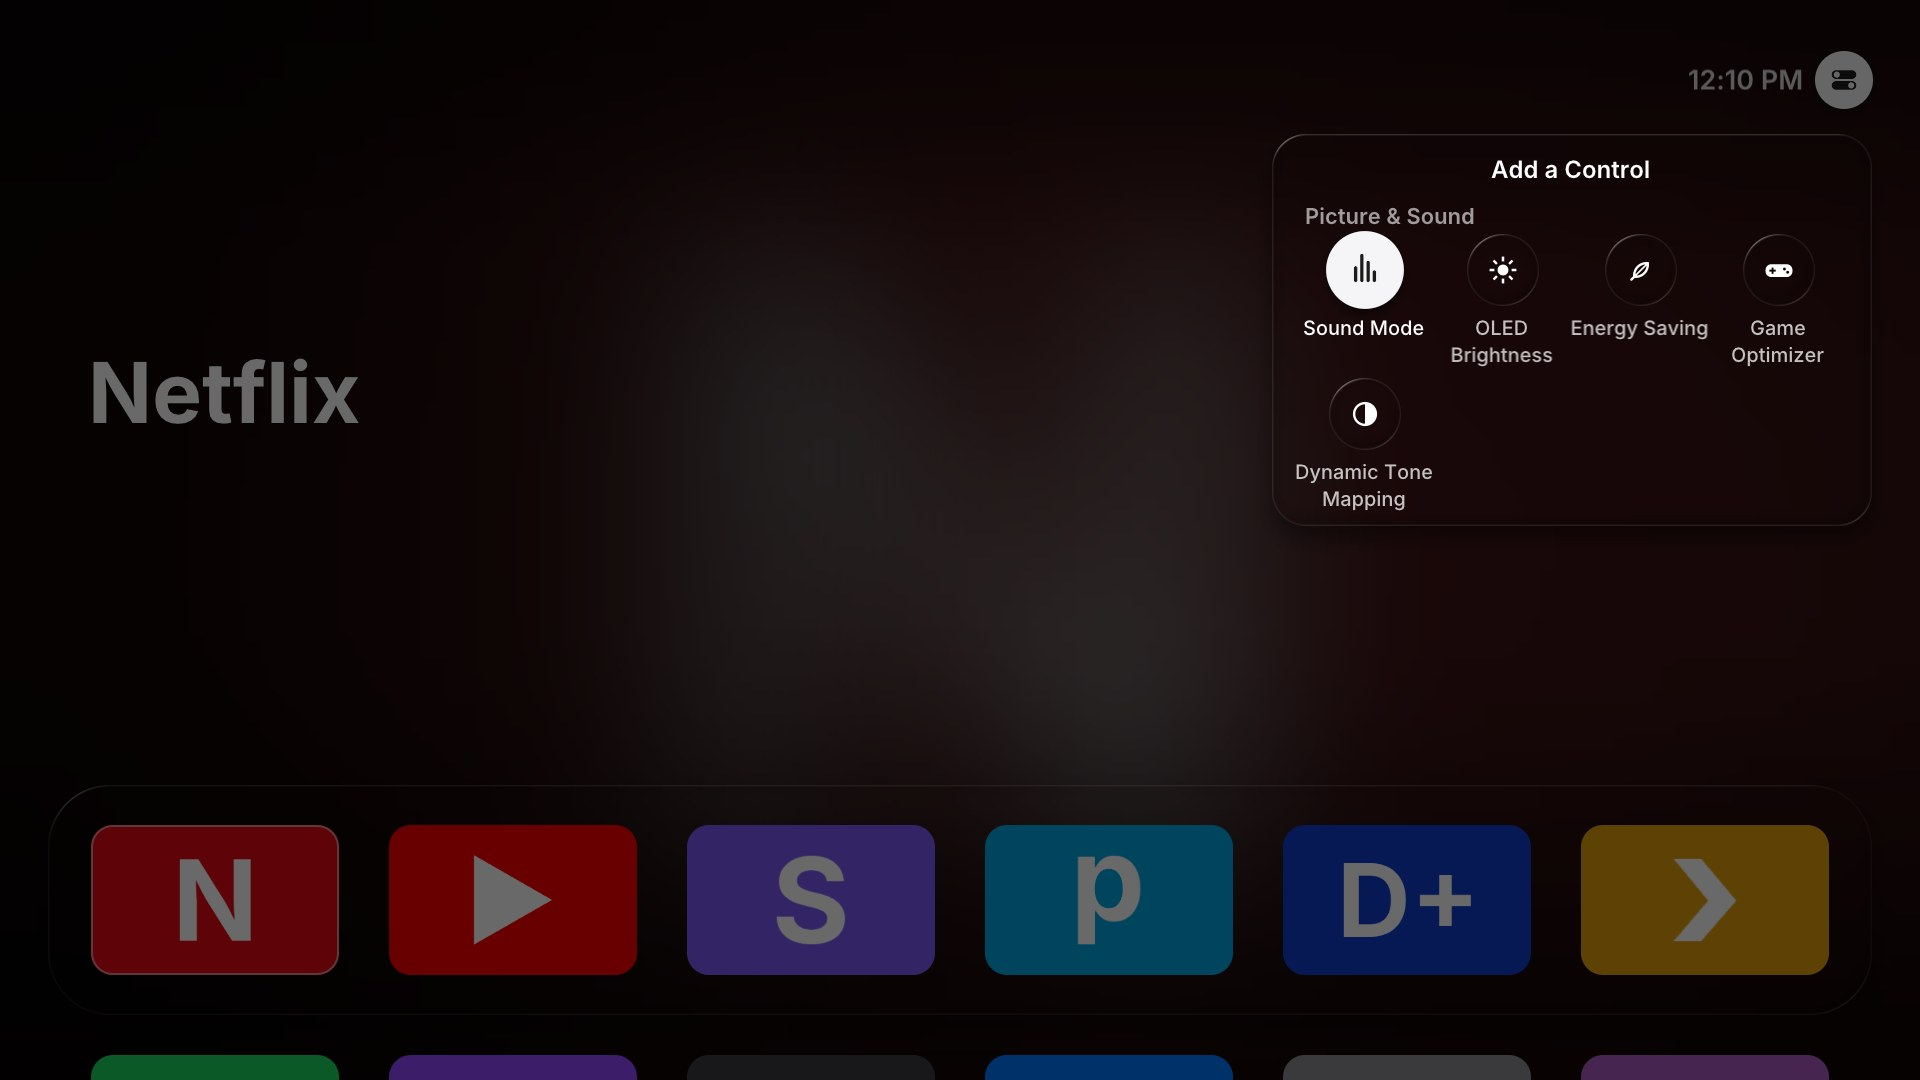
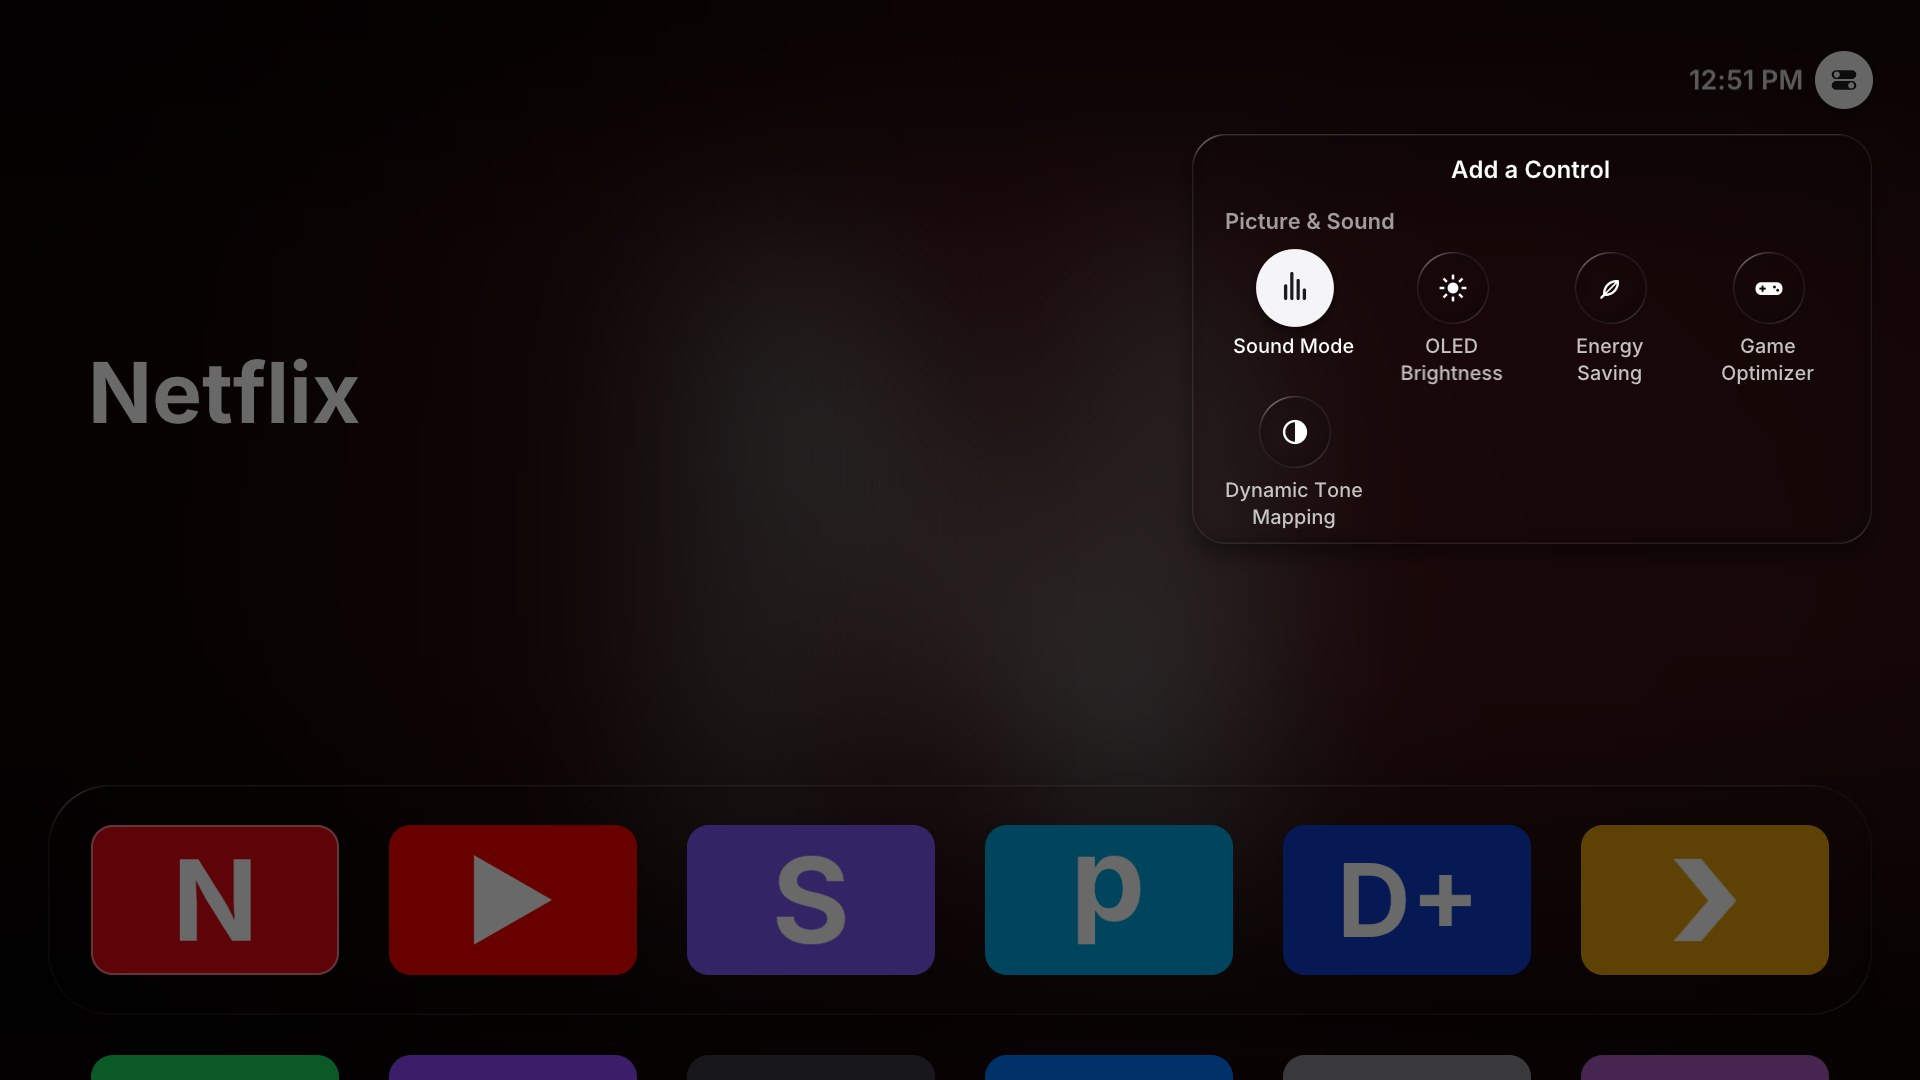
Add a Control: room between each group's name and its controls
A group's name sat in the middle of a 34 px band that ended where its buttons began, about 3 px
above them. The band is 52 px now, with the name near its top (GAL_GROUP_TOP), so there's about
18 px between a name and its controls. Both Control Centers; the README's picture is the new look.

diff --git a/native/qml/ControlCenterView.qml b/native/qml/ControlCenterView.qml
@@ -460,12 +460,13 @@ FocusScope {
 
     // ---- the gallery: what can be added, by group, as round buttons with their names under them;
     // wider than the grid, its right edge the grid's (main.c: cc_gallery_build; GAL_W, GAL_PAD,
-    // GAL_HEAD, GAL_GROUP, GAL_BTN, GAL_ROW, GAL_NAME_PX, GAL_NAME_GAP)
+    // GAL_HEAD, GAL_GROUP, GAL_GROUP_TOP, GAL_BTN, GAL_ROW, GAL_NAME_PX, GAL_NAME_GAP)
 
     readonly property int galW: 680
     readonly property int galPad: 24
     readonly property int galHead: 66
-    readonly property int galGroup: 34
+    readonly property int galGroup: 52 // a group's name, near the top: room between it and its controls
+    readonly property int galGroupTop: 6
     readonly property int galBtn: 72
     readonly property int galRow: 144
     readonly property int galNamePx: 20
@@ -1138,7 +1139,7 @@ FocusScope {
             model: view.galleryHeads.length
             delegate: Text {
                 x: view.galPad + 8
-                y: view.galleryHeads[index].y + (view.galGroup - height) / 2
+                y: view.galleryHeads[index].y + view.galGroupTop
                 text: view.galleryHeads[index].text
                 color: "white"
                 opacity: 0.6

diff --git a/test/qml-sizes.test.js b/test/qml-sizes.test.js
@@ -37,7 +37,7 @@ test('qml sizes: the overlay\'s grid is where Home+\'s is, in the same units', (
 });
 
 test('qml sizes: the overlay\'s gallery is Home+\'s', () => {
-  for (const [q, c] of [['galW', 'GAL_W'], ['galPad', 'GAL_PAD'], ['galHead', 'GAL_HEAD'], ['galGroup', 'GAL_GROUP'],
+  for (const [q, c] of [['galW', 'GAL_W'], ['galPad', 'GAL_PAD'], ['galHead', 'GAL_HEAD'], ['galGroup', 'GAL_GROUP'], ['galGroupTop', 'GAL_GROUP_TOP'],
     ['galBtn', 'GAL_BTN'], ['galRow', 'GAL_ROW'], ['galNamePx', 'GAL_NAME_PX'], ['galNameGap', 'GAL_NAME_GAP']]) {
     assert.equal(prop(q), define(c), `${q} is ${c}`);
   }

diff --git a/native/src/main.c b/native/src/main.c
@@ -2675,7 +2675,8 @@ static float cc_edit_dim(void)
 #define GAL_W 680
 #define GAL_PAD 24
 #define GAL_HEAD 66
-#define GAL_GROUP 34
+#define GAL_GROUP 52    /* a group's name, near the top: room between it and its controls */
+#define GAL_GROUP_TOP 6
 #define GAL_BTN 72
 #define GAL_ROW 144
 #define GAL_NAME_PX 20
@@ -4295,7 +4296,7 @@ static void draw_cc_gallery(float a)
     Uint8 al = (Uint8)(255 * a);
     draw_text(S.cc.list_title, S.cc.ltw, S.cc.lth, x + (w - S.cc.ltw) / 2, y + (GAL_HEAD - S.cc.lth) / 2 + 3, al);
     for (int g = 0; g < S.cc.gal_nhead; g++) /* the group's name, small, on the left like iOS's */
-        draw_text(S.cc.gal_head[g], S.cc.gal_hw[g], S.cc.gal_hh[g], x + GAL_PAD + 8, y + S.cc.gal_hy[g] + (GAL_GROUP - S.cc.gal_hh[g]) / 2,
+        draw_text(S.cc.gal_head[g], S.cc.gal_hw[g], S.cc.gal_hh[g], x + GAL_PAD + 8, y + S.cc.gal_hy[g] + GAL_GROUP_TOP,
                   (Uint8)(al * 0.6f));
     if (!S.cc.gal_n) { /* nothing left to add */
         static Tex *none;
